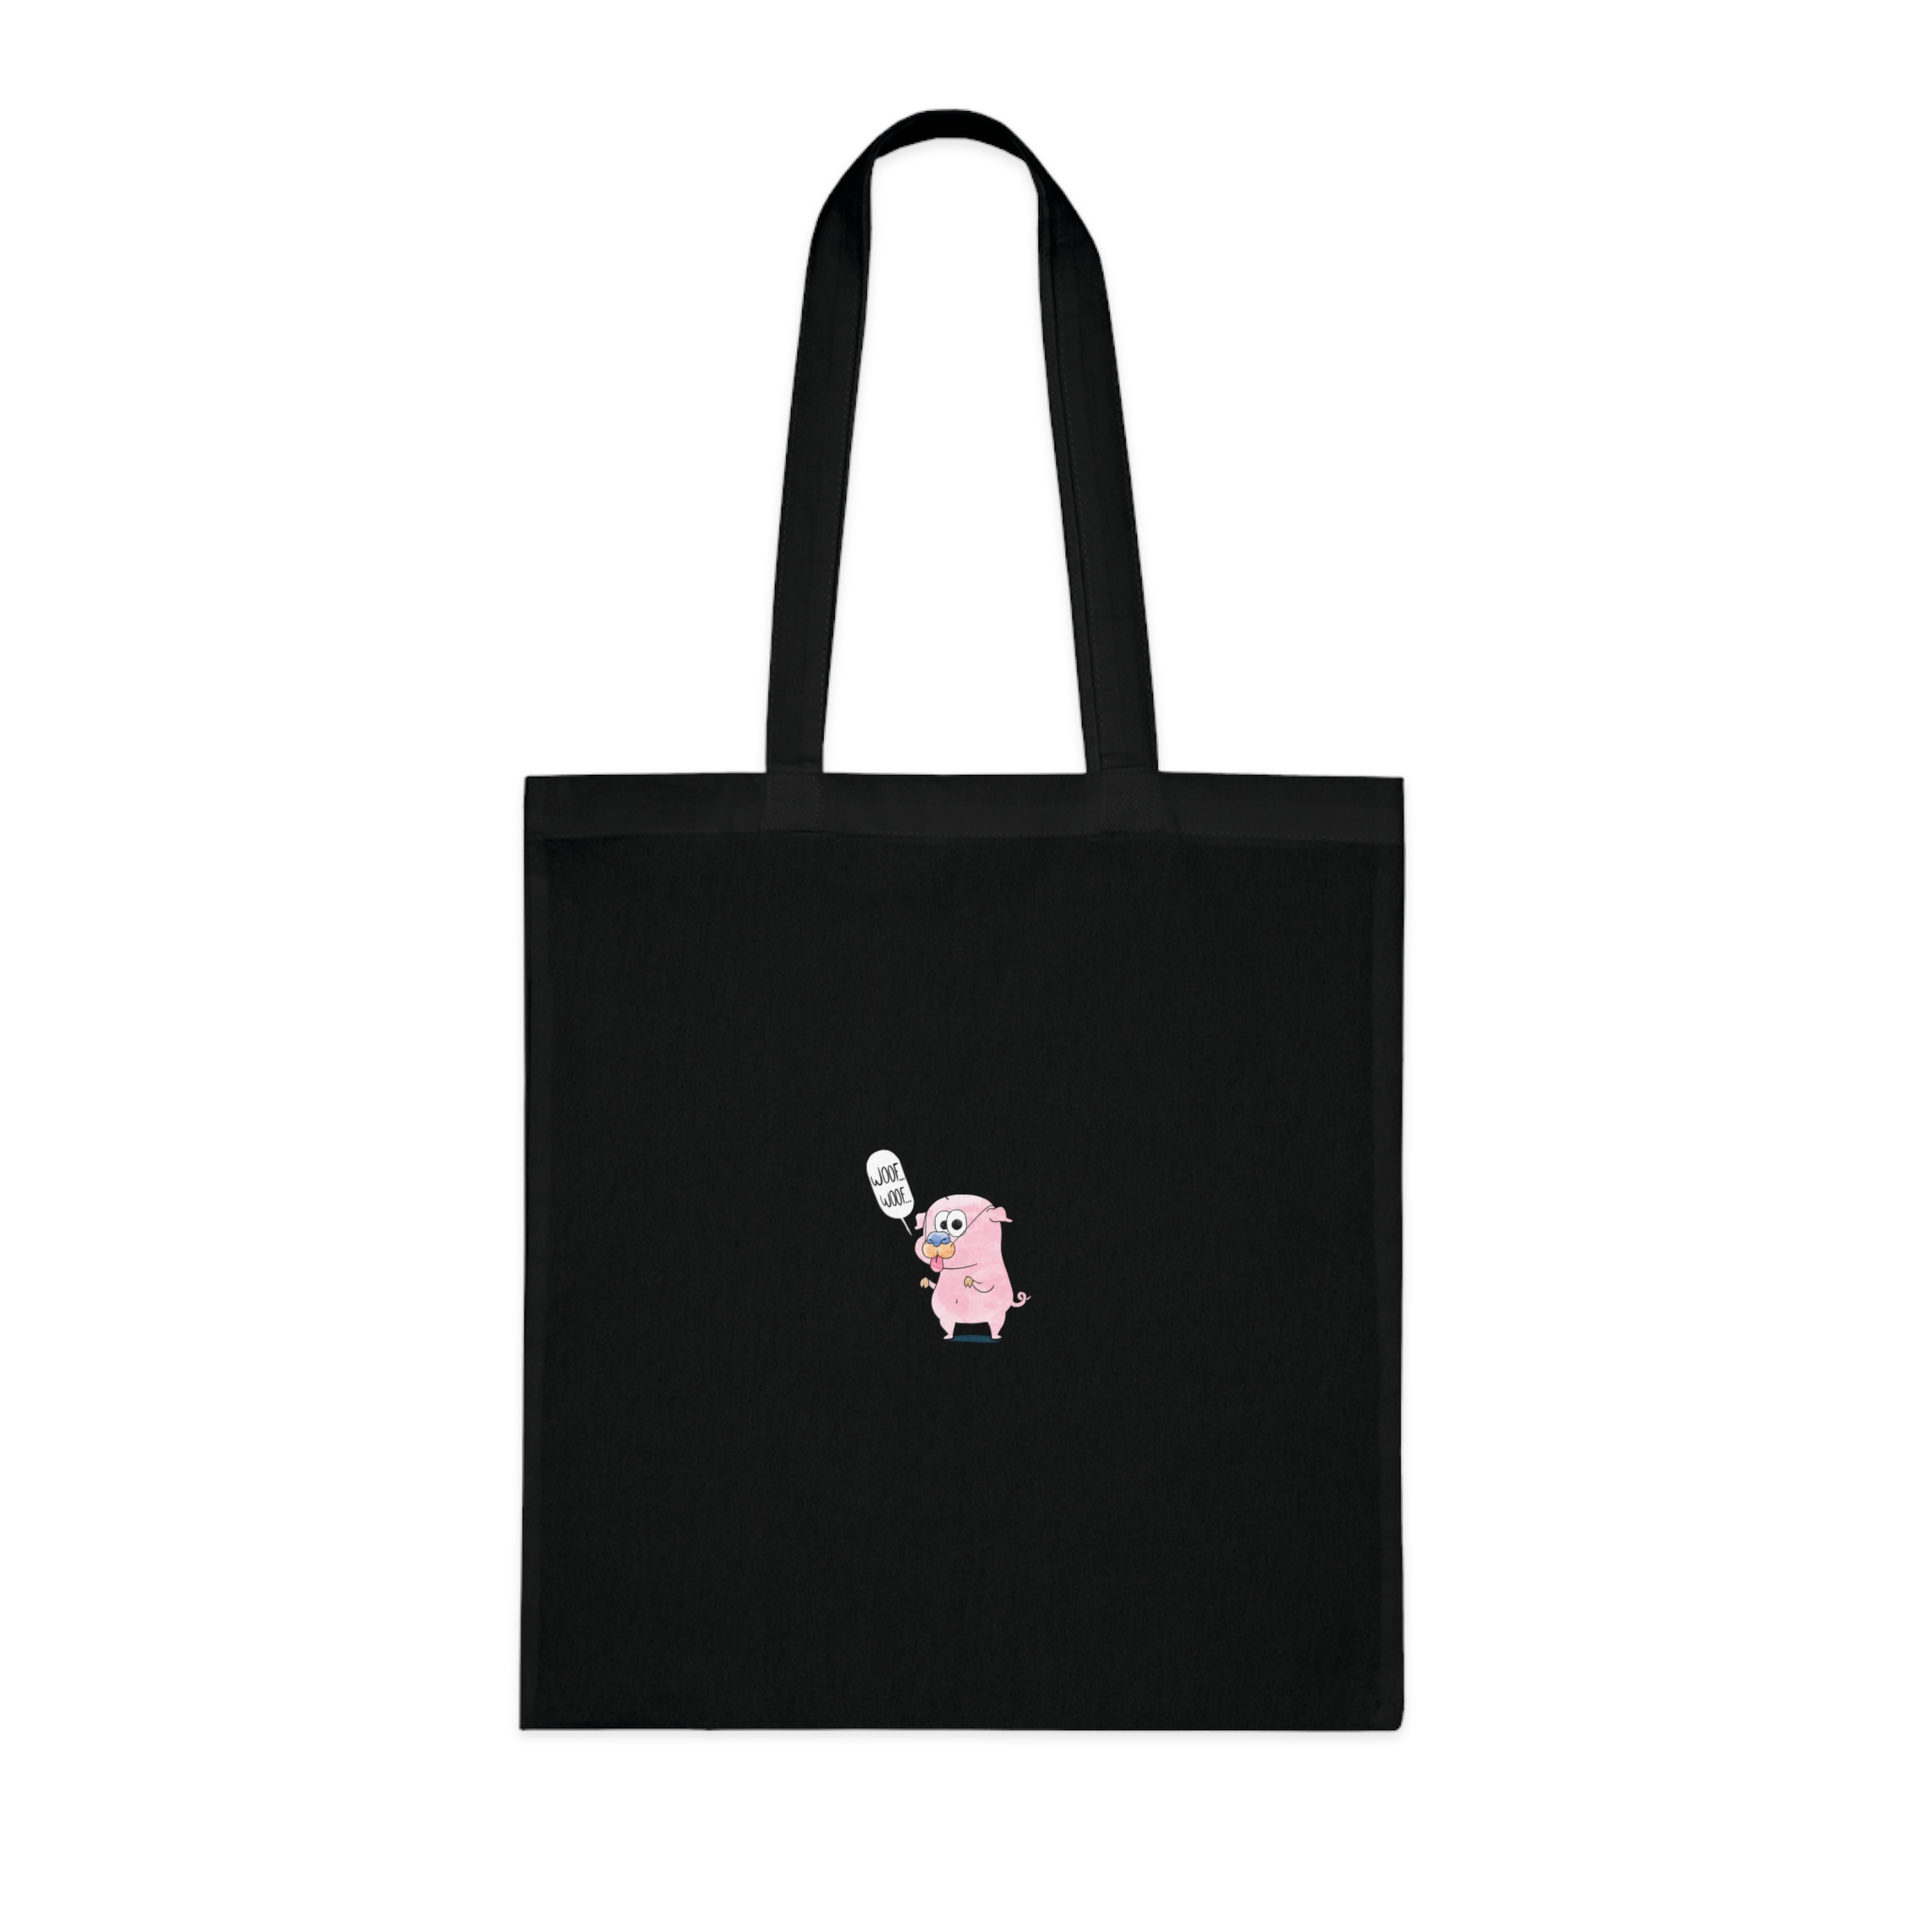
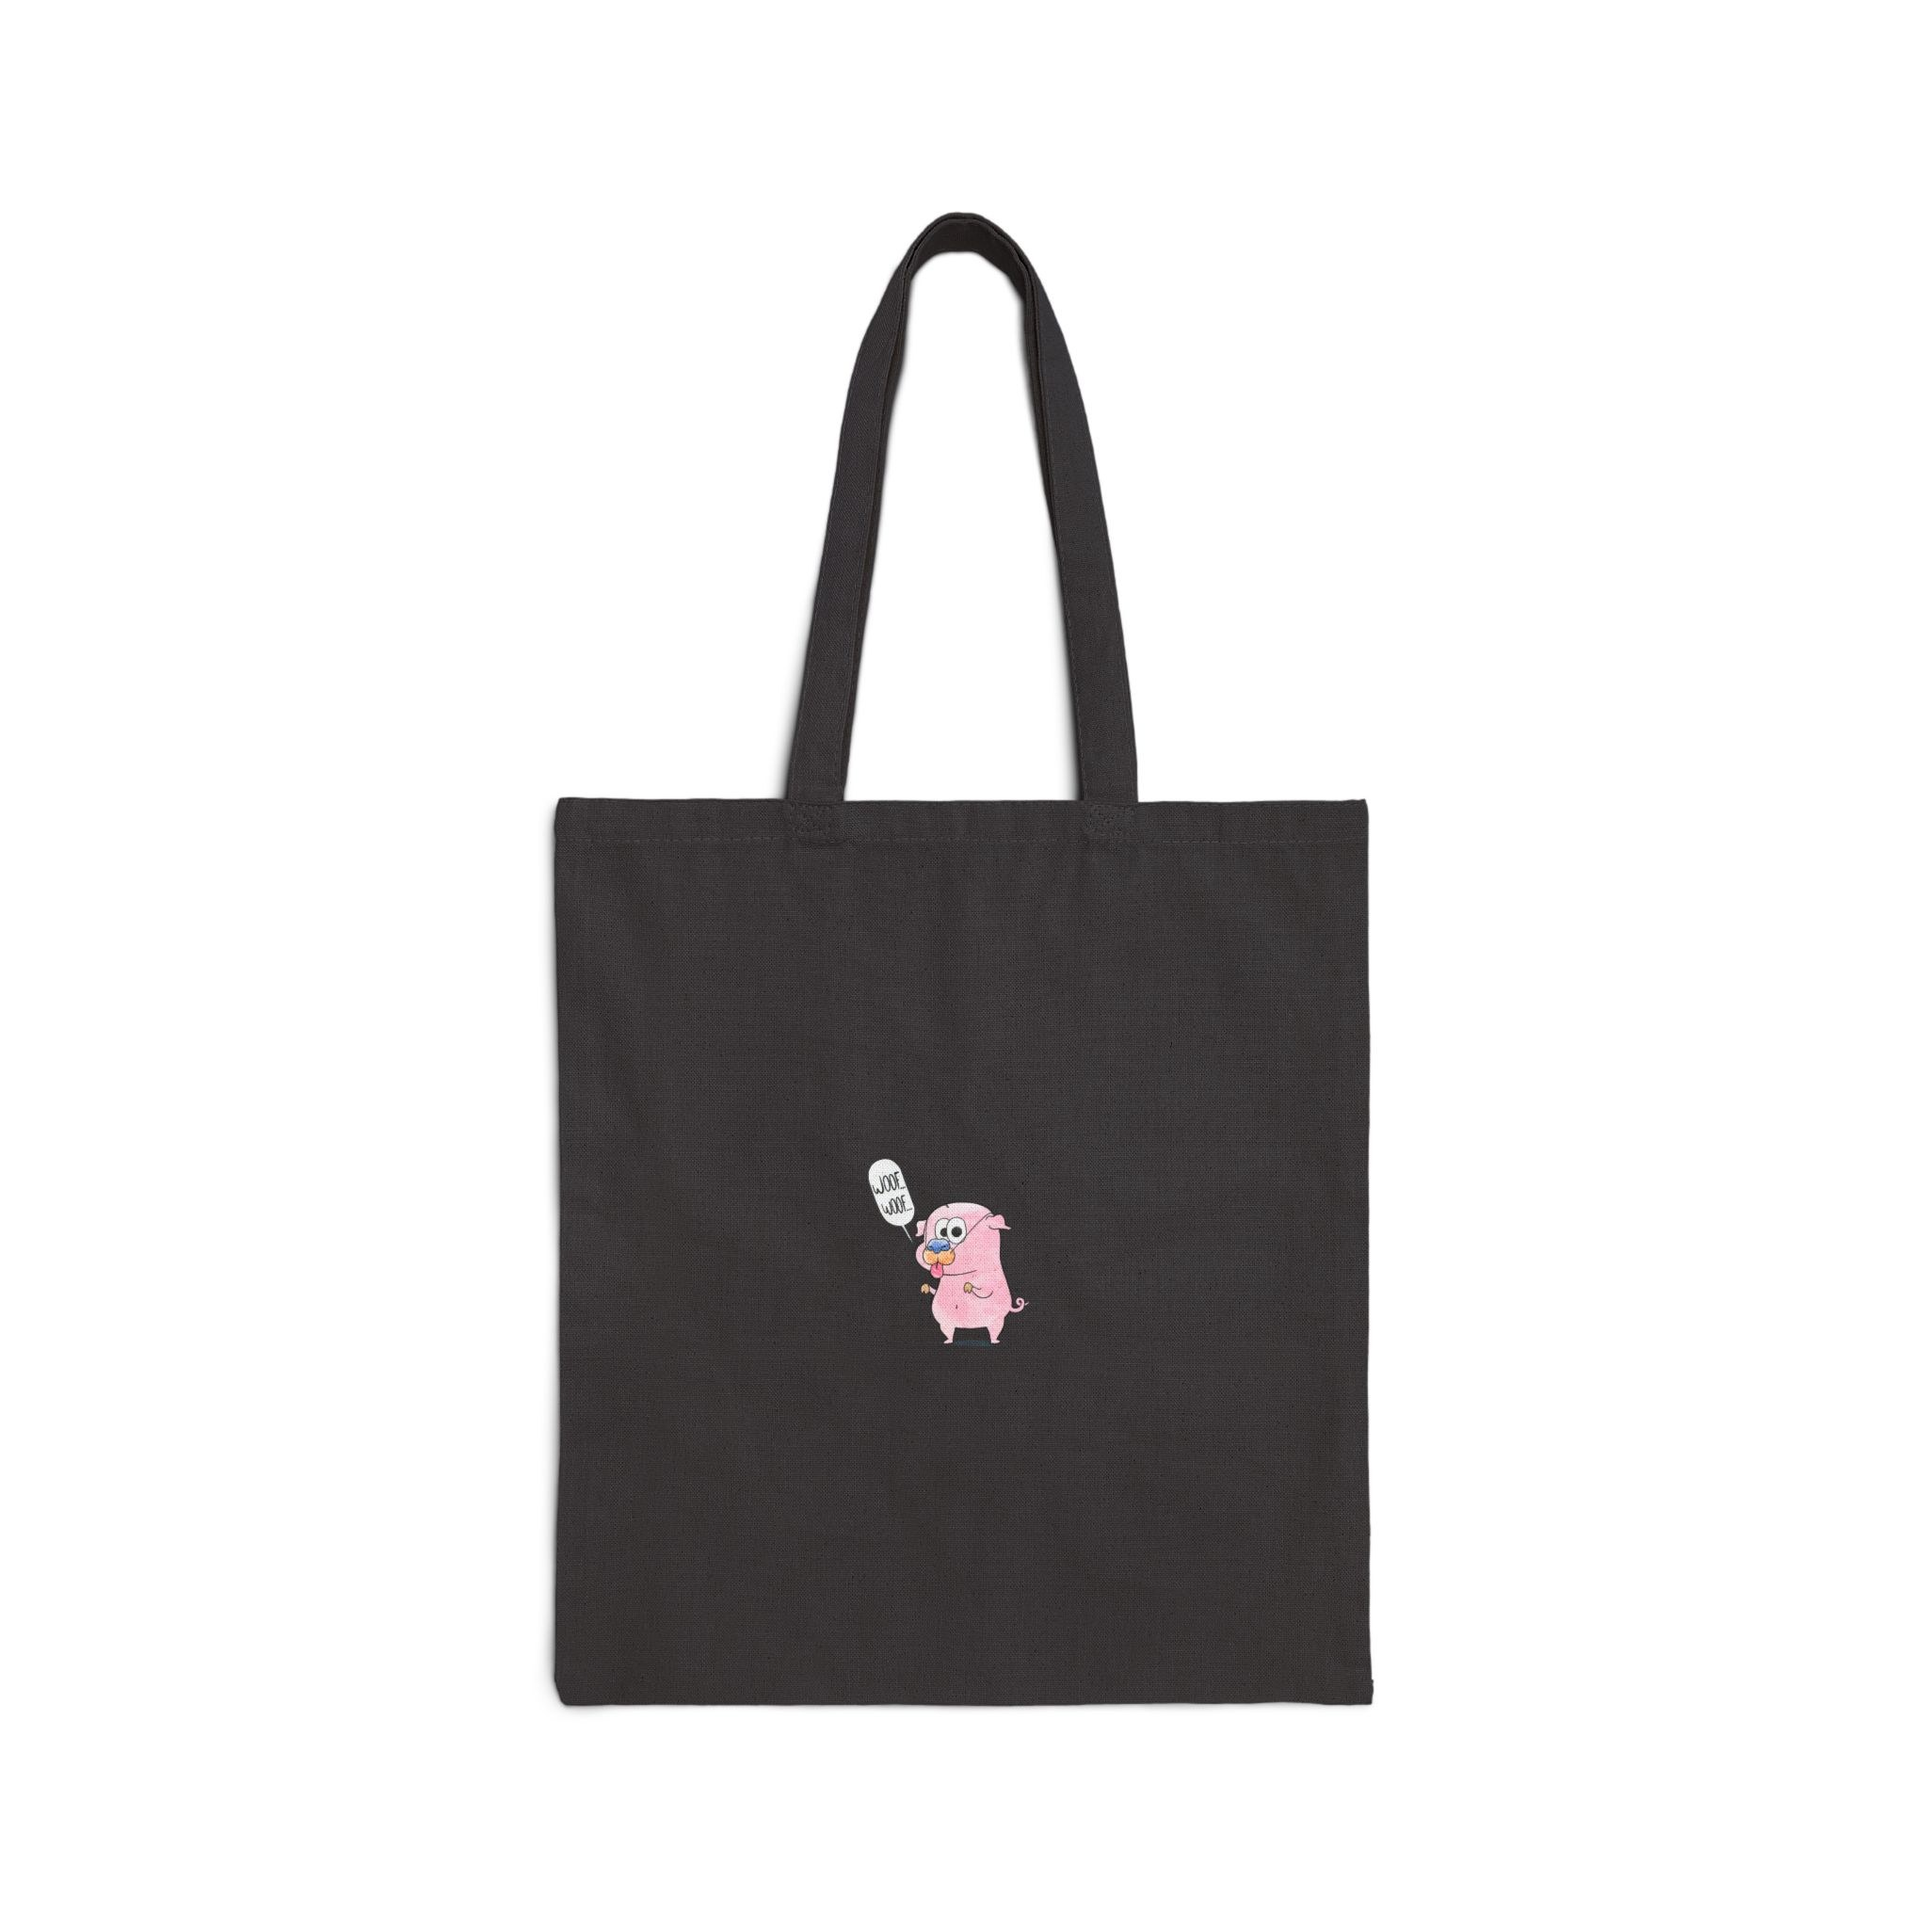
Tote bag US: White -> Natural, real product photos
Printify's real US tote provider (Monster Digital, bp1313) only
fabricates Black or Natural - White never existed. Created the real
product in Printify and regenerated all 8 mockup photos (4 designs x
Black/Natural) from it, replacing the old renders that were sourced
from a different, incorrect blueprint.

Changed region(s): [[0.25, 0.0312, 0.75, 0.9062]]

diff --git a/index.html b/index.html
@@ -441,10 +441,10 @@
     <article class="item" data-product="tote_us">
       <div class="art"><img class="gallery-slide active" src="images/tote_us-negro-trex.jpg" alt="Tote Bag" style="width:100%;height:100%;object-fit:cover;"><div class="gallery-nav"><button type="button" class="gallery-prev" aria-label="Foto anterior">‹</button><button type="button" class="gallery-next" aria-label="Foto siguiente">›</button></div><div class="gallery-dots"></div></div>
       <h3>Tote Bag</h3>
-      <p class="desc">Sturdy cotton tote.</p>
+      <p class="desc">Sturdy cotton canvas tote.</p>
       <div class="swatches">
         <span data-color="Black" class="swatch" style="background:#171412" title="Black"></span>
-        <span data-color="White" class="swatch" style="background:#fff" title="White"></span>
+        <span data-color="Natural" class="swatch" style="background:#e8ddc7" title="Natural"></span>
       </div>
       <div class="designs"><button type="button" class="design-btn" data-design="trex" style="background-image:url('images/diseno-trex.png')" title="T-Rex"></button><button type="button" class="design-btn" data-design="elefante" style="background-image:url('images/diseno-elefante.png')" title="Elephant"></button><button type="button" class="design-btn" data-design="unicornio" style="background-image:url('images/diseno-unicornio.png')" title="Unicorn"></button><button type="button" class="design-btn" data-design="cerdo" style="background-image:url('images/diseno-cerdo.png')" title="Pig"></button></div>
       <div class="sizes"></div>
@@ -508,7 +508,7 @@
 (function(){
   var WORKER_URL = 'https://kokomo-cart.edenkokomo.workers.dev/create-checkout-session';
   var RETURN_PATH = '/happyfriendlykokomo-en/';
-  var COLOR_SLUGS = { 'Black': 'negro', 'White': 'blanco', 'Sky Blue': 'azulcielo', 'Light Pink': 'rosaclarito' };
+  var COLOR_SLUGS = { 'Black': 'negro', 'White': 'blanco', 'Natural': 'natural', 'Sky Blue': 'azulcielo', 'Light Pink': 'rosaclarito' };
 
   // Single checkout entry point for the whole site: both a card's "Buy"
   // button and the cart drawer's own button end up here, and both ALWAYS
